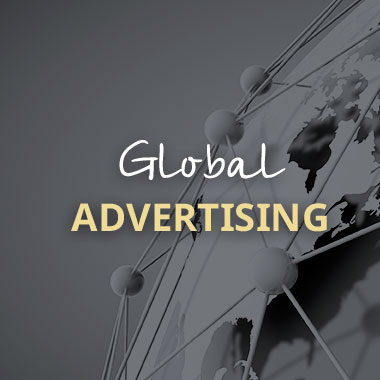
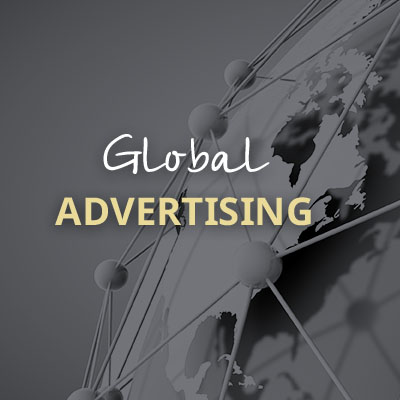
hot fixes

diff --git a/src/advertising.html b/src/advertising.html
@@ -15,12 +15,12 @@
     <div class="parallax-block first-type">
         <div class="parallax-images">
             <div class="parallax-image-top">
-                <img src="images/services-parallax-1-1.jpg" alt="" />
+                <img src="images/advstrng-parallax-1-1.png" alt="" />
             </div>
         </div>
         <div class="parallax-blur">
             <div class="parallax-image-top">
-                <img src="images/services-parallax-1-1.jpg" alt="" />
+                <img src="images/advstrng-parallax-1-1.png" alt="" />
             </div>
         </div>
     </div>
